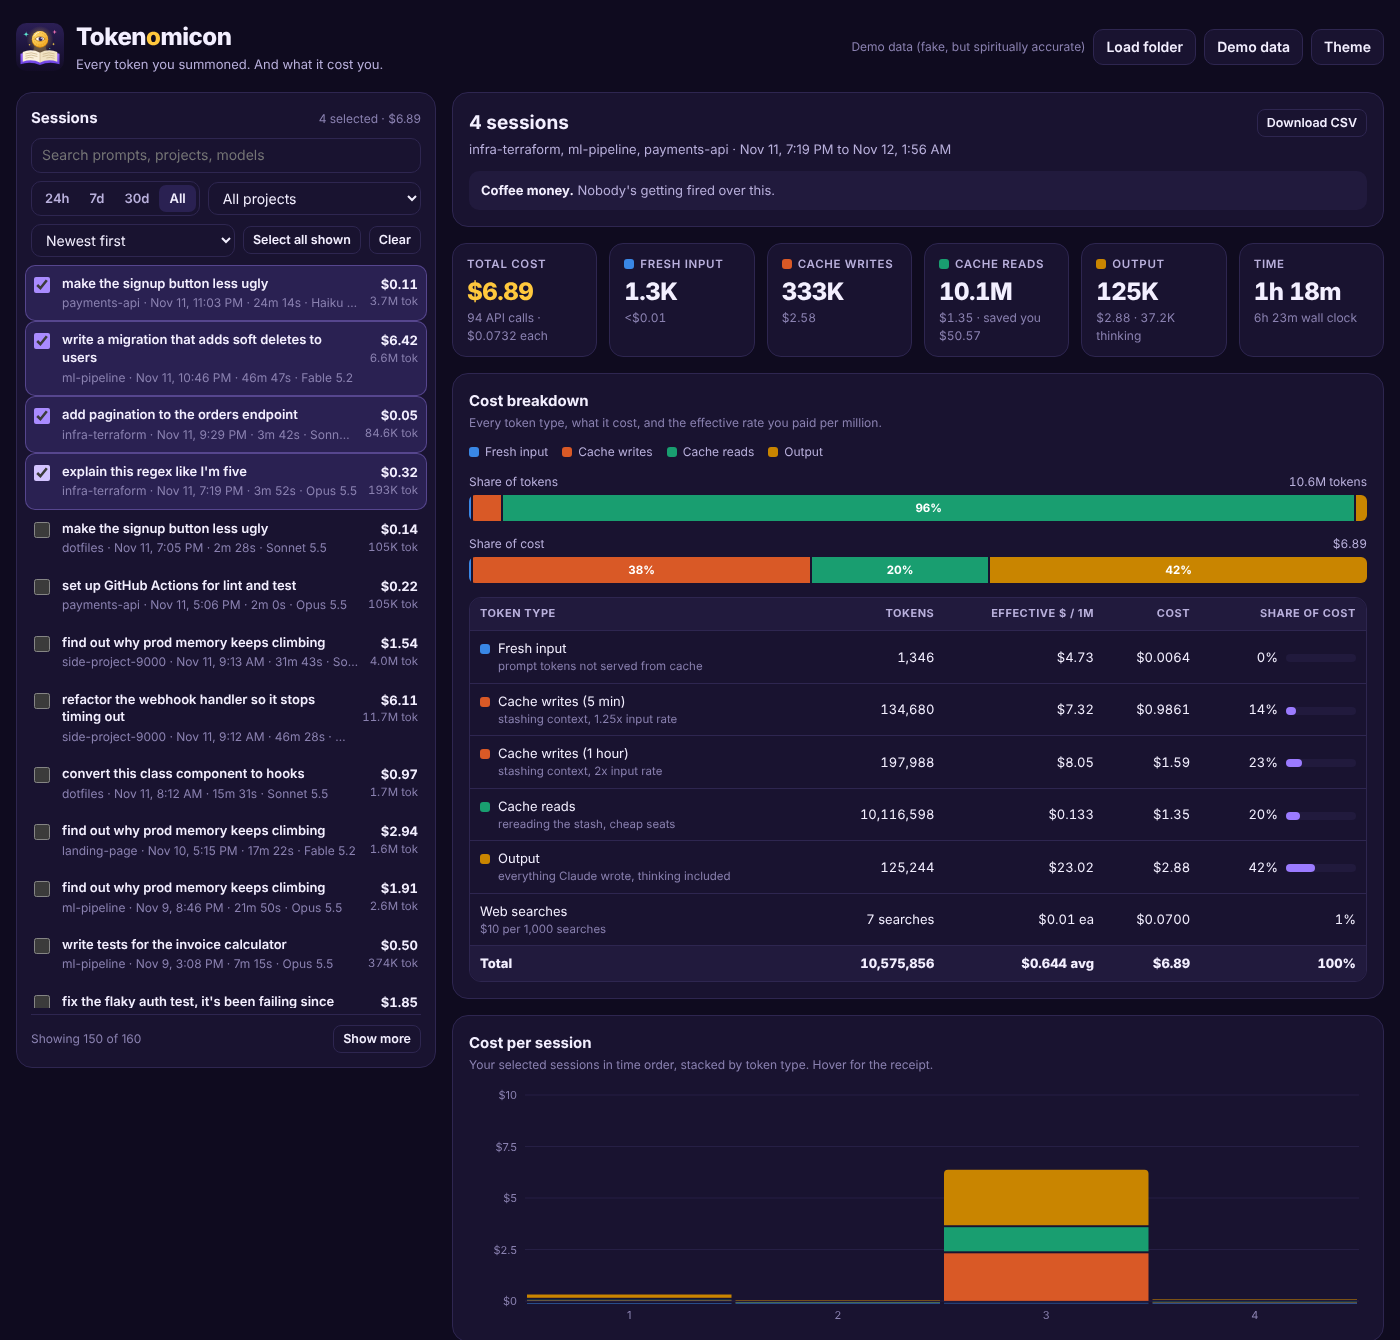
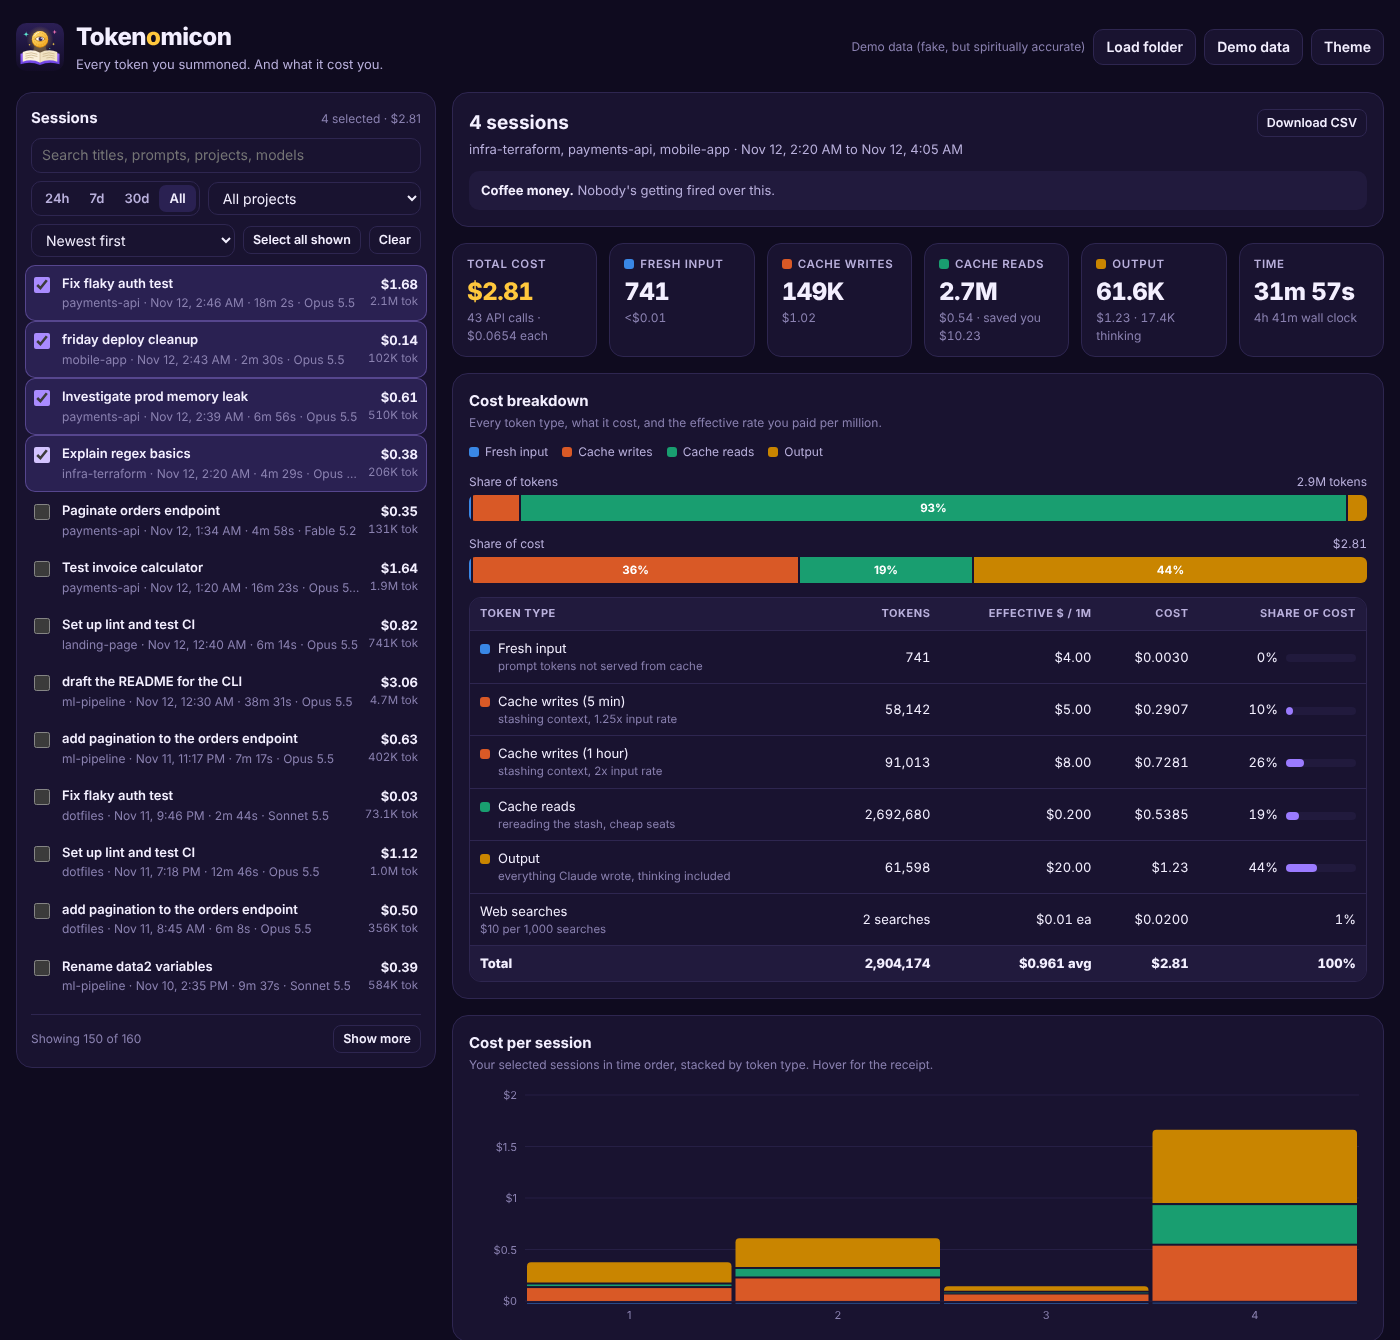
Show Claude Code's own session names
Sessions now use the same name Claude Code's /resume list shows: the
/rename title, then the auto-generated AI title, then an older-style
summary, then the first prompt. The first prompt moves to a tooltip and
a line under the session header, and search covers both.

The collector keeps custom-title and ai-title records and resolves
summary records (which point at a message uuid) to their session.

Claude-Session: https://claude.ai/code/session_01U3uU7CrouXCSi8app1Azmj

diff --git a/tokenomicon.html b/tokenomicon.html
@@ -275,7 +275,7 @@ footer { color: var(--text-3); font-size: 12px; margin-top: 8px; }
         <span class="source" id="selCount"></span>
       </div>
       <div class="ctl">
-        <input type="search" id="q" placeholder="Search prompts, projects, models" aria-label="Search sessions">
+        <input type="search" id="q" placeholder="Search titles, prompts, projects, models" aria-label="Search sessions">
         <div class="seg" id="range" role="group" aria-label="Date range">
           <button type="button" data-days="1">24h</button>
           <button type="button" data-days="7">7d</button>
@@ -313,6 +313,7 @@ footer { color: var(--text-3); font-size: 12px; margin-top: 8px; }
             <div>
               <h2 id="dTitle"></h2>
               <p id="dSub"></p>
+              <p id="dPrompt" class="muted" style="font-size:12.5px;overflow-wrap:anywhere" hidden></p>
             </div>
             <button class="btn sm" id="csvBtn" type="button">Download CSV</button>
           </div>
@@ -497,9 +498,19 @@ function buildSessions(objs, fileHints) {
     if (!s) { s = { id, cwd: null, hint, times: [], prompt: null, promptTs: Infinity, cc: null }; sess.set(id, s); }
     return s;
   };
+  const uuidSess = new Map(), summaries = [];
   for (let i = 0; i < objs.length; i++) {
     const o = objs[i];
-    if (!o || typeof o !== "object" || !o.sessionId) continue;
+    if (!o || typeof o !== "object") continue;
+    // Session names, the way Claude Code's /resume picks them: /rename title, then AI title, then summary.
+    if (o.type === "summary" && o.summary) { // older versions point at a message uuid; tokenomicon.py pre-resolves it
+      if (o.sessionId) getS(o.sessionId, null).summary = o.summary; else if (o.leafUuid) summaries.push(o);
+      continue;
+    }
+    if (!o.sessionId) continue;
+    if (o.uuid) uuidSess.set(o.uuid, o.sessionId);
+    if (o.type === "custom-title") { if (o.customTitle) getS(o.sessionId, null).customTitle = o.customTitle; continue; }
+    if (o.type === "ai-title") { if (o.aiTitle) getS(o.sessionId, null).aiTitle = o.aiTitle; continue; }
     if (o.type === "cost-state") { // Claude Code's own running tally, if this version writes it; resets per process
       const s = getS(o.sessionId, null);
       const runs = s.ccRuns || (s.ccRuns = new Map());
@@ -551,6 +562,8 @@ function buildSessions(objs, fileHints) {
     };
     (s.calls = s.calls || []).push({ ts: c.ts, model: p.name, known: p.known, rawModel: c.model, side: c.side, fast: mult > 1, tok, cost, total: sumCost(cost), saved: tok.cr * (p.in - p.cr) / 1e6 * mult });
   }
+  for (const o of summaries) { const s = sess.get(uuidSess.get(o.leafUuid)); if (s) s.summary = o.summary; }
+  const clean = t => t ? String(t).replace(/\s+/g, " ").trim() : "";
   const out = [];
   for (const s of sess.values()) {
     if (!s.calls || !s.calls.length) continue;
@@ -570,14 +583,16 @@ function buildSessions(objs, fileHints) {
     const project = cwd ? cwd.replace(/[\\/]+$/, "").split(/[\\/]/).pop() : (s.hint || "unknown");
     const end = s.times[s.times.length - 1];
     out.push({
-      id: s.id, project, cwd, prompt: s.prompt || "Untitled session in " + project, start: s.times[0], end, wall: end - s.times[0], active,
+      id: s.id, project, cwd, prompt: s.prompt || "",
+      title: clean(s.customTitle) || clean(s.aiTitle) || clean(s.summary) || s.prompt || "Untitled session in " + project,
+      titleSource: s.customTitle ? "renamed" : s.aiTitle ? "ai" : s.summary ? "summary" : s.prompt ? "prompt" : "none", start: s.times[0], end, wall: end - s.times[0], active,
       tok, cost, total: sumCost(cost), byModel, primary, calls: s.calls, saved,
       cc: s.ccRuns ? [...s.ccRuns.values()].reduce((a, r) => ({ cost: a.cost + r.cost, api: a.api + r.api, tool: a.tool + r.tool }), { cost: 0, api: 0, tool: 0 }) : null,
       unknown: [...new Set(s.calls.filter(c => !c.known).map(c => c.rawModel))],
       search: null,
     });
   }
-  for (const s of out) s.search = (s.prompt + " " + s.project + " " + Object.keys(s.byModel).join(" ") + " " + s.id).toLowerCase();
+  for (const s of out) s.search = (s.title + " " + s.prompt + " " + s.project + " " + Object.keys(s.byModel).join(" ") + " " + s.id).toLowerCase();
   out.sort((a, b) => b.start - a.start);
   return out;
 }
@@ -606,6 +621,13 @@ function makeDemo() {
     "set up GitHub Actions for lint and test", "port the cron job to a queue worker",
     "rename everything called 'data2' to something a human would choose", "draft the README for the CLI", "investigate the 3am pager alert",
   ];
+  const aiTitles = [ // what Claude Code's auto-titler would call them, same order as prompts
+    "Fix flaky auth test", "Debug failing CI build", "Refactor webhook handler timeouts", "Add soft deletes migration",
+    "Explain regex basics", "Restyle signup button", "Paginate orders endpoint", "Investigate prod memory leak",
+    "Convert class component to hooks", "Test invoice calculator", "Set up lint and test CI", "Move cron job to queue worker",
+    "Rename data2 variables", "Write CLI README", "Triage 3am pager alert",
+  ];
+  const renames = ["auth hell", "THE memory leak", "friday deploy cleanup", "pager duty postmortem"];
   const models = [["claude-opus-5-5", 55], ["claude-sonnet-5-5", 28], ["claude-haiku-5-5", 9], ["claude-fable-5-2", 8]];
   const now = Date.now();
   const objs = [];
@@ -621,7 +643,10 @@ function makeDemo() {
     const model = wpick(models);
     const turns = 3 + Math.floor(rnd() * rnd() * 70);
     let ctx = 18000 + Math.floor(rnd() * 12000);
-    objs.push({ type: "user", sessionId: sid, timestamp: new Date(t).toISOString(), cwd, message: { role: "user", content: pick(prompts) } });
+    const pi = Math.floor(rnd() * prompts.length);
+    objs.push({ type: "user", sessionId: sid, timestamp: new Date(t).toISOString(), cwd, message: { role: "user", content: prompts[pi] } });
+    if (rnd() < 0.85) objs.push({ type: "ai-title", aiTitle: aiTitles[pi], sessionId: sid });
+    if (rnd() < 0.08) objs.push({ type: "custom-title", customTitle: pick(renames), sessionId: sid });
     for (let k = 0; k < turns; k++) {
       t += 4000 + rnd() * 70000;
       if (rnd() < 0.05) t += 20 * 60e3 + rnd() * 60 * 60e3;
@@ -683,13 +708,13 @@ function renderList() {
   const ul = document.getElementById("list");
   ul.replaceChildren(...list.slice(0, state.limit).map(s => {
     const on = state.selected.has(s.id);
-    const cb = el("input", { type: "checkbox", "aria-label": "Select session: " + s.prompt });
+    const cb = el("input", { type: "checkbox", "aria-label": "Select session: " + s.title });
     cb.checked = on;
     const models = Object.keys(s.byModel);
     const meta = [s.project, fmtDateTime(s.start), fmtDur(s.active), models[0] === s.primary && models.length === 1 ? s.primary : s.primary + " +" + (models.length - 1)].join(" · ");
     const label = el("label", { class: "item" + (on ? " on" : "") },
       cb,
-      el("div", { style: "min-width:0" }, el("div", { class: "p", title: s.prompt }, s.prompt), el("div", { class: "m", title: s.cwd || s.project }, meta)),
+      el("div", { style: "min-width:0" }, el("div", { class: "p", title: s.prompt && s.prompt !== s.title ? "First prompt: " + s.prompt : s.title }, s.title), el("div", { class: "m", title: s.cwd || s.project }, meta)),
       el("div", { class: "c num" }, fmtUSD(s.total), el("small", null, fmtTok(s.tok.inp + s.tok.cw5 + s.tok.cw1 + s.tok.cr + s.tok.out) + " tok")));
     cb.addEventListener("change", () => {
       if (cb.checked) state.selected.add(s.id); else state.selected.delete(s.id);
@@ -741,7 +766,10 @@ function renderDetail() {
 
   // header
   const one = sel.length === 1 ? sel[0] : null;
-  document.getElementById("dTitle").textContent = one ? one.prompt : sel.length + " sessions";
+  document.getElementById("dTitle").textContent = one ? one.title : sel.length + " sessions";
+  const fp = document.getElementById("dPrompt");
+  fp.hidden = !(one && one.prompt && one.prompt !== one.title);
+  if (!fp.hidden) fp.textContent = "First prompt: " + one.prompt;
   const projects = [...new Set(sel.map(s => s.project))];
   document.getElementById("dSub").textContent = one
     ? [one.project, fmtDateTime(one.start) + " to " + fmtTime(one.end), "session " + one.id.slice(0, 8)].join(" · ")
@@ -804,10 +832,10 @@ function renderDetail() {
   if (sel.length > 1) {
     const ordered = sel.slice().sort((a, b) => b.total - a.total);
     document.getElementById("perSession").replaceChildren(
-      el("thead", null, el("tr", null, ...["", "First prompt", "Project", "Started", "Active", "Wall", "Fresh in", "Cache W", "Cache R", "Output", "Cost", "Share"].map((h, i) => el("th", { class: i > 3 ? "r" : "" }, h)))),
+      el("thead", null, el("tr", null, ...["", "Session", "Project", "Started", "Active", "Wall", "Fresh in", "Cache W", "Cache R", "Output", "Cost", "Share"].map((h, i) => el("th", { class: i > 3 ? "r" : "" }, h)))),
       el("tbody", null, ...ordered.map(s => el("tr", null,
         el("td", null, el("button", { class: "x", type: "button", title: "Remove from selection", "aria-label": "Remove from selection", onclick: () => { state.selected.delete(s.id); saveSel(); renderList(); renderDetail(); } }, "×")),
-        el("td", { class: "prompt", title: s.prompt }, s.prompt), el("td", null, s.project), el("td", null, fmtDateTime(s.start)),
+        el("td", { class: "prompt", title: s.prompt ? "First prompt: " + s.prompt : s.title }, s.title), el("td", null, s.project), el("td", null, fmtDateTime(s.start)),
         el("td", { class: "r num" }, fmtDur(s.active)), el("td", { class: "r num" }, fmtDur(s.wall)),
         el("td", { class: "r num" }, fmtTok(s.tok.inp)), el("td", { class: "r num" }, fmtTok(s.tok.cw5 + s.tok.cw1)), el("td", { class: "r num" }, fmtTok(s.tok.cr)), el("td", { class: "r num" }, fmtTok(s.tok.out)),
         el("td", { class: "r num" }, el("b", null, fmtUSD(s.total))),
@@ -835,7 +863,7 @@ function renderCalls(sel) {
   } else {
     document.getElementById("callsTitle").textContent = "Cost per session";
     document.getElementById("callsHint").textContent = "Your selected sessions in time order, stacked by token type. Hover for the receipt.";
-    items = sel.map(s => ({ label: fmtDateTime(s.start), sub: s.prompt.slice(0, 60), tok: s.tok, cost: s.cost, total: s.total }));
+    items = sel.map(s => ({ label: fmtDateTime(s.start), sub: s.title.slice(0, 60), tok: s.tok, cost: s.cost, total: s.total }));
   }
   const W = Math.max(320, host.clientWidth || 800), H = 240, padL = 56, padR = 8, padT = 10, padB = 24;
   const iw = W - padL - padR, ih = H - padT - padB, n = items.length;
@@ -903,11 +931,11 @@ function renderPricing() {
 /* ---------- CSV ---------- */
 function downloadCSV() {
   const sel = selection();
-  const head = ["session_id", "project", "first_prompt", "started", "ended", "active_seconds", "wall_seconds", "api_calls", "models",
+  const head = ["session_id", "title", "project", "first_prompt", "started", "ended", "active_seconds", "wall_seconds", "api_calls", "models",
     "fresh_input_tokens", "cache_write_5m_tokens", "cache_write_1h_tokens", "cache_read_tokens", "output_tokens", "thinking_tokens", "web_searches",
     "fresh_input_usd", "cache_write_usd", "cache_read_usd", "output_usd", "web_search_usd", "total_usd"];
   const q = v => { const s = String(v); return /[",\n]/.test(s) ? '"' + s.replace(/"/g, '""') + '"' : s; };
-  const lines = [head.join(",")].concat(sel.map(s => [s.id, s.project, s.prompt, new Date(s.start).toISOString(), new Date(s.end).toISOString(),
+  const lines = [head.join(",")].concat(sel.map(s => [s.id, s.title, s.project, s.prompt, new Date(s.start).toISOString(), new Date(s.end).toISOString(),
     Math.round(s.active / 1000), Math.round(s.wall / 1000), s.calls.length, Object.keys(s.byModel).join(" + "),
     s.tok.inp, s.tok.cw5, s.tok.cw1, s.tok.cr, s.tok.out, s.tok.think, s.tok.web,
     s.cost.inp.toFixed(6), (s.cost.cw5 + s.cost.cw1).toFixed(6), s.cost.cr.toFixed(6), s.cost.out.toFixed(6), s.cost.web.toFixed(6), s.total.toFixed(6)].map(q).join(",")));

diff --git a/tokenomicon.py b/tokenomicon.py
@@ -67,6 +67,15 @@ def slim(obj):
         # Claude Code's own running tally (newer versions only). Totals only, no content.
         return {k: obj.get(k) for k in ("type", "sessionId", "totalCostUSD", "totalAPIDuration",
                                          "totalToolDuration", "totalDuration", "startTime")}
+    # Session names, exactly as Claude Code shows them in /resume:
+    # your /rename title, else the auto-generated title, else an older-style summary.
+    if t == "custom-title" and obj.get("sessionId") and obj.get("customTitle"):
+        return {"type": t, "sessionId": obj["sessionId"], "customTitle": obj["customTitle"]}
+    if t == "ai-title" and obj.get("sessionId") and obj.get("aiTitle"):
+        return {"type": t, "sessionId": obj["sessionId"], "aiTitle": obj["aiTitle"]}
+    if t == "summary" and obj.get("leafUuid") and obj.get("summary"):
+        # points at a message uuid, not a session; collect() resolves it
+        return {"type": t, "leafUuid": obj["leafUuid"], "summary": obj["summary"]}
     if t not in ("user", "assistant") or not obj.get("sessionId") or not obj.get("timestamp"):
         return None
     out = {
@@ -100,6 +109,8 @@ def slim(obj):
 
 def collect(dirs):
     records, hints, files, bad = [], [], 0, 0
+    uuid_session = {}  # message uuid -> sessionId, to place "summary" titles
+    summaries = []
     for root in dirs:
         for path in sorted(root.rglob("*.jsonl")):
             files += 1
@@ -112,15 +123,27 @@ def collect(dirs):
                         if not line:
                             continue
                         try:
-                            rec = slim(json.loads(line))
+                            obj = json.loads(line)
+                            rec = slim(obj)
                         except (json.JSONDecodeError, AttributeError, TypeError):
                             bad += 1
                             continue
-                        if rec:
-                            records.append(rec)
-                            hints.append(hint)
+                        if obj.get("uuid") and obj.get("sessionId"):
+                            uuid_session[obj["uuid"]] = obj["sessionId"]
+                        if not rec:
+                            continue
+                        if rec["type"] == "summary":
+                            summaries.append(rec)
+                            continue
+                        records.append(rec)
+                        hints.append(hint)
             except OSError as e:
                 print(f"  skipping {path}: {e}", file=sys.stderr)
+    for rec in summaries:
+        sid = uuid_session.get(rec["leafUuid"])
+        if sid:
+            records.append({"type": "summary", "sessionId": sid, "summary": rec["summary"]})
+            hints.append(None)
     return records, hints, files, bad
 
 

diff --git a/README.md b/README.md
@@ -27,7 +27,7 @@ Flags: `--dir PATH` (scan somewhere else, repeatable), `--out FILE`, `--no-open`
 
 ## How it works
 
-1. **Pick sessions.** The left panel lists every session it found, with its first prompt, project, date, time spent, cost and token count. Search, filter by project or date (24h / 7d / 30d / All), sort by newest, priciest, most tokens or longest, and tick as many as you like. "Select all shown" grabs everything that matches your filter.
+1. **Pick sessions.** The left panel lists every session it found under the same name Claude Code's `/resume` shows (your `/rename` title, else Claude's auto-generated title, else the first prompt), plus project, date, time spent, cost and token count. Hover a name to see the first prompt. Search, filter by project or date (24h / 7d / 30d / All), sort by newest, priciest, most tokens or longest, and tick as many as you like. "Select all shown" grabs everything that matches your filter.
 2. **Read the bill.** The right panel breaks down whatever you picked:
    - Total cost, fresh input, cache writes, cache reads, output (with thinking tokens called out) and time
    - Share of tokens vs share of cost, side by side, so you can see cache reads being 96% of the tokens and a fraction of the money
